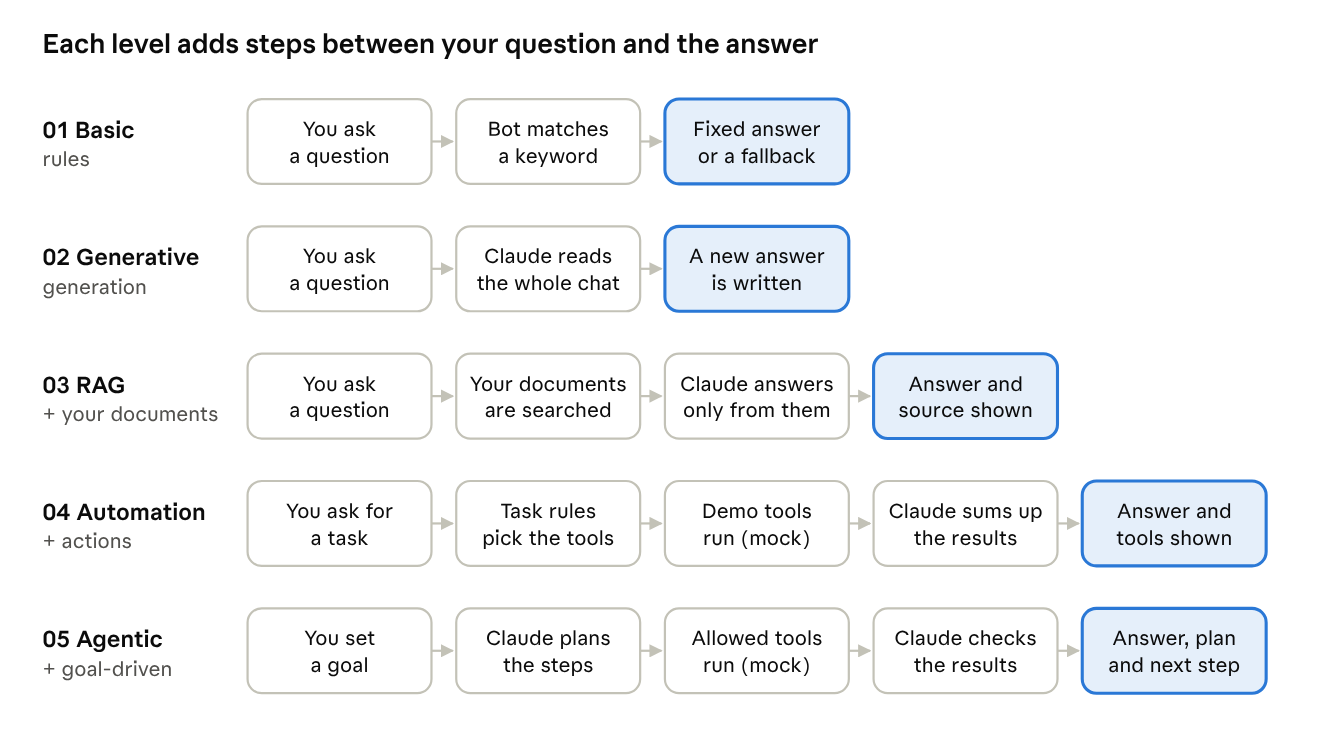
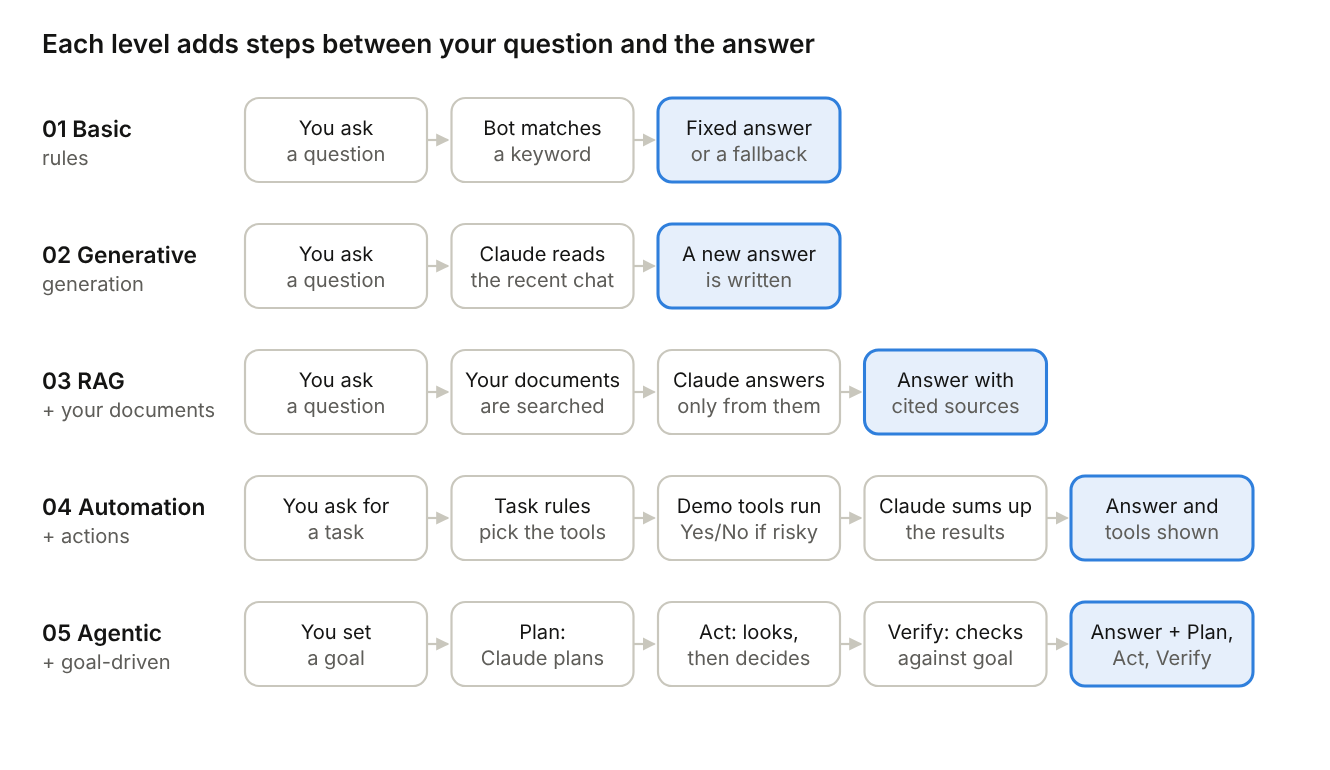
docs: bring README, charter v0.2, summary, runbook and workflows up to date with 0.8.2; redraw workflow diagrams
Claude-Session: https://claude.ai/code/session_01Gj5fjwYeEsk61TV7uCHYFr

diff --git a/docs/PM004_04_Runbook.md b/docs/PM004_04_Runbook.md
@@ -1,6 +1,6 @@
 # PM004_04 Runbook: ChatBot - Basics to Advance
 
-22 Nov 2026 · Naveen Nigam
+23 Nov 2026 · Naveen Nigam
 
 What the app is, how to run it, how to demo the five levels and what to do when something breaks. Learning prototype with demo data only; nothing it does changes a real system. Charter: [PM004_01](PM004_01_Project_Charter.md).
 
@@ -13,10 +13,12 @@ The app shows five chatbots side by side, from fixed rules to a goal-driven agen
 | 01 | Basic Chatbot | Guided menu: pick a topic, then follow-up buttons; typed questions matched by keyword; anything else returns the main menu | No | Click **Cards**, then **Block my card** | Follow-up buttons, mode: fixed_rules |
 | 02 | Generative AI | Writes a free answer from the question alone; knows nothing about Bluewater Bank | Yes | Starter: "Draft an email to the bank asking for an update on payment PAY-1042" | "What this level did" |
 | 03 | RAG | Finds matching text in `knowledge/` and answers only from it, with numbered citations and a Sources list (readable titles; click to see the passage) | Yes | "What is the leave policy?" | "What this level did": sources and match % |
-| 04 | AI Automation | Keyword rules decide which demo tools to run; Claude summarises the results | Yes | "I need leave next week, check my balance" | "What this level did": tools and mock results |
-| 05 | Agentic AI | Look, decide, act: Claude plans and runs read-only lookups, looks at the results, then decides whether any action is needed; irreversible actions wait for approval | Yes | A gold goal, e.g. "My payment PAY-1042 is stuck. Check it and draft a complaint email to the bank" | "What this level did": plan, tools, blocked tools, check |
+| 04 | AI Automation | Keyword rules decide which demo tools to run; Claude summarises the results. No rule matched: a cited document search. Irreversible actions ask Yes / No first | Yes | Cards → "I lost my card. What should I do?" | "What this level did": tools, mock results, approval |
+| 05 | Agentic AI | Plan, Act, Verify: Claude plans, runs read-only lookups, looks at the results, then decides whether any action is needed and checks the outcome against the goal; irreversible actions wait for approval | Yes | A gold goal, e.g. "My payment PAY-1042 is stuck. Check it and draft a complaint email to the bank" | Plan / Act / Verify steps and "Why an agent here" under every answer; the panel adds lookups, decision and checks |
 
-**Same workflow everywhere:** every bot opens with the same five topics. In 01 a topic opens its fixed menu; in 02 to 05 it opens the same short list of questions to pick from, so you can compare answers directly. Each answer ends with follow-up buttons and **Main menu**: fixed in 01; suggested by Claude in 02, 03 and 05; in 04 fixed next steps on the same topic (after a card block: order a replacement card or raise a card ticket).
+**Same workflow everywhere:** every bot opens with the same five topics. In 01 a topic opens its fixed menu; in 02 to 05 it opens the same short list of questions to pick from, so you can compare answers directly. Each answer ends with follow-up buttons and **Main menu**: fixed in 01; suggested by Claude in 02, 03 and 05 (in 05 including actions the agent can take); in 04 fixed next steps on the same topic (after a card block: order a replacement card or raise a card ticket). In 05 each topic also shows one gold **agent goal**, and the three "Goals for the agent" stay above the message box.
+
+**Cost:** every AI answer shows its Claude calls and input/output tokens in "What this level did"; use it to compare what each level costs. See [PM004_07 Token Optimisation](PM004_07_Token_Optimisation.md).
 
 Rule of thumb: use the simplest level that fully solves the problem (decision guide in the charter, section 6.4).
 
@@ -67,6 +69,7 @@ The command window is the server: leave it open while you use the app.
 | `ANTHROPIC_WORKSPACE_ID` | Only for keys not created inside a workspace | Blank |
 | `ANTHROPIC_MODEL` | `claude-sonnet-5-5`, `claude-opus-5-5` or `claude-haiku-5-5` | `claude-sonnet-5-5` |
 | `ANTHROPIC_MAX_TOKENS` | Longest reply length | 1500 |
+| `CHATBOT_HISTORY_MESSAGES` | How many recent messages are re-sent to Claude each turn | 8 |
 
 Use Haiku for long practice sessions to keep costs low, and Sonnet or Opus for demos.
 
@@ -76,17 +79,17 @@ Click the same topic in all five bots, in order, and point out what changes. The
 
 | Question | 01 Basic | 02 Generative AI | 03 RAG | 04 AI Automation | 05 Agentic AI |
 | --- | --- | --- | --- | --- | --- |
-| "What is the leave policy?" | Fixed rule: leave needs approval, ask HR | General answer; does not know your policy | Quotes the demo policy (request 5 working days ahead) and cites `leave_policy.md` | Runs leave balance (8 days, mock) and leave policy tools, then summarises | Makes a plan, picks the leave tools, explains and verifies |
-| "My payment was declined, what should I do?" | No rule: fallback message | General list of common causes | Uses `payments_support.md`: details to confirm, possible causes, escalate | Searches the knowledge base and summarises | Plans the checks, searches, suggests next steps |
-| "I lost my card. What should I do?" (the **Cards** topic) | Card menu: how to block it | General advice | Card policy with source [1] | Asks **Yes, block the card / No, keep it active** first; blocks the demo card only after Yes | Plans the steps, runs safe ones (e.g. a ticket), holds the block for your approval |
-| "My payment keeps failing, raise a support ticket" | Fallback | Explains it cannot raise tickets | Answers from the guides, no ticket | Also creates a demo ticket (DEMO-xxxxxxxx) | May plan search, then ticket, then a check |
+| "What is the leave policy?" | Fixed rule: leave needs approval, ask HR | General answer; does not know your policy | Quotes the demo policy (request 5 working days ahead) and cites `leave_policy.md` | Runs leave balance (8 days, mock) and leave policy tools, then summarises | Looks up balance and policy, decides no action is needed, verifies; may say a lower level would have done |
+| "My payment was declined, what should I do?" | No rule: fallback message | General list of common causes | Uses `payments_support.md`: details to confirm, possible causes, escalate | Searches the knowledge base and summarises | Searches the guides, decides whether a ticket is needed, verifies |
+| "I lost my card. What should I do?" (the **Cards** topic) | Card menu: how to block it | General advice | Card policy with source [1] | Asks **Yes, block the card / No, keep it active** first; blocks the demo card only after Yes | Checks the card rules, proposes blocking the card and waits for your Yes; shows Plan / Act / Verify |
+| "My payment keeps failing, raise a support ticket" | Fallback | Explains it cannot raise tickets | Answers from the guides, no ticket | Also creates a demo ticket (DEMO-xxxxxxxx) | Looks first, raises the ticket because you asked, then verifies |
 | "My payment PAY-1042 is stuck. Check it and draft a complaint email to the bank." (05 gold goal) | Payment update email template | Drafts a generic email | Payment guidance with source, no status | Payment status and an email draft, marked not sent | Checks the status first, then drafts an email that quotes it, and verifies |
 
 **What to say at each step**
 - 01 to 02: the bot now understands free text and writes, but it does not know your company.
 - 02 to 03: answers now come from your own documents, with the source named.
 - 03 to 04: the bot now does something through tools, not just answers.
-- 04 to 05: the bot decides the steps itself; that flexibility is why real actions need human approval.
+- 04 to 05: the agent looks before it acts, decides its next step from what it found, verifies the result and says why an agent was (or was not) needed. That flexibility is why real actions still need your approval. Try a gold goal to see it earn its extra cost.
 
 Results vary slightly between runs for modes 02 to 05.
 
@@ -107,6 +110,7 @@ Results vary slightly between runs for modes 02 to 05.
 | Port 8000 already in use | App already running in another window | Close the other window, or use the one already open |
 | Basic bot says no rule matches | Expected: it only knows its fixed rules | Use the demo questions, or add a rule (section 7) |
 | RAG says it found nothing relevant | Question words do not appear in the knowledge files | Rephrase, or add a document |
+| "Why an agent here: the agent's decision could not be read" | Claude's decision reply was not valid JSON, so the agent safely did nothing | Ask again; the raw reply is shown in "What this level did" for diagnosis |
 | Old chats gone | `chat_history.db` deleted or app run from another folder | Restore the backup copy into the app folder |
 
 ## 7. Extending, safety and backup
@@ -115,7 +119,7 @@ Results vary slightly between runs for modes 02 to 05.
 | --- | --- | --- |
 | Teach the RAG bot your own content | Add a `.md` file to `knowledge/`; separate topics with a blank line | Demo or non-sensitive content only |
 | Add a Basic menu topic | Add a node to `BASIC_TREE` in `app.py` (label, answer, follow-up options, keywords), link it from a parent's options, and add it to `BASIC_MATCH_ORDER` | Keep wording exact and approved |
-| Add a demo tool | Add it to `tool()` and `ALLOWED_TOOLS`, and a keyword rule in the automation branch | Mock results only |
+| Add a demo tool | Add it to `tool()` and to `READ_ONLY_TOOLS` (only looks) or `ACTION_TOOLS` (changes something); add irreversible ones to `NEEDS_APPROVAL`; add a keyword rule for level 04 | Mock results only |
 | Change the model | `ANTHROPIC_MODEL` in `.env` | Restart |
 | Run the tests | `pip install -r requirements-dev.txt` then `pytest` | No key or internet needed |
 

diff --git a/docs/PM004_06_Workflows.md b/docs/PM004_06_Workflows.md
@@ -1,12 +1,12 @@
 # PM004_06 Workflows: ChatBot - Basics to Advance
 
-22 Nov 2026 · Naveen Nigam
+23 Nov 2026 · Naveen Nigam
 
 This document shows how the five chatbots work twice over: first as the user experiences them (functional), then as the system processes them (technical). Every step matches the current code; anything planned is marked as backlog. Related: [Charter](PM004_01_Project_Charter.md), [Runbook](PM004_04_Runbook.md), [Executive Summary](PM004_05_Executive_Summary.md).
 
 ## 1. Functional workflows
 
-From the user's side every level starts the same way: the same five topics, or a typed question or goal. Each level adds steps before the answer arrives, and every answer ends with follow-up buttons and Main menu (fixed in 01, suggested by Claude in 02 to 05, written in the same call at no extra cost).
+From the user's side every level starts the same way: the same five topics, or a typed question or goal. Each level adds steps before the answer arrives, and every answer ends with follow-up buttons and Main menu (fixed in 01 and 04; suggested by Claude in 02, 03 and 05, written in the same call at no extra cost).
 
 ![Functional workflows: user view of the five levels](images/workflow-functional.png)
 
@@ -16,9 +16,9 @@ The highlighted box is what the user gets back. What changes from level to level
 | --- | --- | --- | --- |
 | 01 Basic | Clicks a topic or asks a known question | A fixed answer with buttons for the next questions, or the main menu if nothing matches | Exact, approved wording |
 | 02 Generative AI | Picks a topic or asks anything in their own words | A new written answer, three suggested follow-up questions and Main menu | Drafting and explaining; not company facts |
-| 03 RAG | Asks about company policy or procedure | An answer plus the source file names | Answers grounded in the documents given |
-| 04 AI Automation | Asks for a known task | A summary plus the tools that ran; a Yes / No approval first for anything irreversible; follow-ups offer only real tasks on the same topic | Defined tasks with predictable steps |
-| 05 Agentic AI | States a goal | The plan, the tools that ran and the result | Multi-step goals, with a person approving any real action |
+| 03 RAG | Asks about company policy or procedure | An answer with numbered citations and a Sources list (document title and the passage used) | Answers grounded in the documents given |
+| 04 AI Automation | Asks for a known task | A summary plus the tools that ran; a Yes / No approval first for anything irreversible; follow-ups offer only real tasks on the same topic; a cited document search when no rule matches | Defined tasks with predictable steps |
+| 05 Agentic AI | States a goal, or picks a gold goal | A short reply, then Plan → Act → Verify steps and a "Why an agent here" note; a Yes / No approval first for anything irreversible | Multi-step goals, with a person approving any real action |
 
 ## 2. Technical request flow
 
@@ -38,9 +38,9 @@ Step 5 runs different functions in `app.py` for each level. The number of Claude
 | --- | --- | --- | --- |
 | 01 Basic | `basic()` over `BASIC_TREE` (16 topics, each with follow-up options) | 0 | None needed |
 | 02 Generative AI | `history()`, `clean_messages()`, `llm()` | 1 | None needed |
-| 03 RAG | `retrieve()` (content-word overlap, common words ignored, top 3 chunks), `llm()` with the chunks as context | 0 when nothing matches, else 1 | Embedding search with a vector store |
-| 04 AI Automation | keyword rules, `tool()`, `llm()` to summarise | 1 | Claude native tool calling |
-| 05 Agentic AI | `llm()` plan + read-only lookups (`READ_ONLY_TOOLS`), `tool()`, `llm()` decide actions after seeing results (`ACTION_TOOLS`, approval for irreversible ones), `llm()` short answer | 3 | Native tool calling in a loop, with a human approval step |
+| 03 RAG | `retrieve()` (content-word overlap, common words ignored, top 3 chunks, weak matches below half the best score dropped), `number_sources()`, `llm()` with numbered sources as context | 0 when nothing matches, else 1 | Embedding search with a vector store |
+| 04 AI Automation | keyword rules (`automation_tools()`), `tool()`, `llm()` to summarise; no rule matched: cited document search; `NEEDS_APPROVAL` holds irreversible tools | 0 or 1 (0 when asking for approval, after a No, or when nothing is found) | Claude native tool calling |
+| 05 Agentic AI | Plan: `llm()` JSON plan and read-only lookups (`READ_ONLY_TOOLS`). Act: `tool()`, then `llm()` decides actions after seeing the results (`ACTION_TOOLS`; irreversible ones held for approval). Verify: app checks, then `llm()` short reply with a `VERIFY:` line, parsed by `finish_verify()` | 3 | Native tool calling in a loop, with a human approval step |
 
 ## 4. Error and safety paths
 
@@ -56,7 +56,10 @@ Every failure returns a clear message instead of a guess, and the safety rules a
 | A request failed, then the user sends again | Merges the two user turns so Claude still gets alternating turns | A normal answer | Yes |
 | RAG finds nothing relevant | Does not call Claude at all | "I won't invent a policy answer" | Yes |
 | Agent plans a tool that is not on the allow-list | Skips it; only allow-listed tools run | Only real demo tool results | Yes |
-| Agent plan is not valid JSON | Falls back to a safe plan with no tools | An explanation that no tools were run | No |
+| Agent plan is not valid JSON | Falls back to a safe plan that only searches the documents | A normal answer from the documents | No |
+| Agent decision is not valid JSON | Takes no action | "The agent's decision could not be read, so it safely took no action"; the raw reply is shown in the panel | Yes (parser test) |
+| Agent tries an action during the look step | Blocks it; actions run only after the decision step | Listed under blocked tools | Yes |
+| Document search finds only weak matches | Drops passages scoring less than half the best match | Answers use only relevant passages | Yes |
 | Conversation belongs to another bot | Rejects the message (HTTP 400) | Error message | No |
 | Empty message or unknown bot | Rejects the message (HTTP 400) | Error message | No |
 | Any demo tool | Returns mock data only; nothing is sent, submitted or booked | Results marked as demo or "not sent" | Yes |
@@ -72,18 +75,18 @@ The page talks to eleven small API endpoints, and two SQLite tables hold all con
 | `GET /` | Serves the web page |
 | `GET /api/health` | Status badge: provider, model, whether a key is configured |
 | `GET /api/basic/menu` | Main menu topics for the Basic bot |
-| `GET /api/menu?bot=<mode>` | The shared topic menu: in Basic each topic opens its menu branch; in 02 to 05 each topic sends the same question |
+| `GET /api/menu?bot=<mode>` | The shared topic menu: in Basic each topic opens its menu branch; in 02 to 05 each topic opens the same list of questions; in 05 each topic also has a gold goal, plus three goals for the strip above the message box |
 | `GET /api/settings` | Whether a key is set (masked hint only), workspace ID, model |
 | `POST /api/settings` | Saves key, workspace ID and model to `.env`; validates their format |
 | `POST /api/settings/test` | Live, free connection test (token count) with a plain-English result |
 | `GET /api/conversations?bot=<mode>` | Lists saved conversations for one mode, newest first |
 | `POST /api/conversations` | Starts a new conversation for a mode |
 | `GET /api/conversations/{id}` | Reopens one conversation with all its messages |
-| `POST /api/chat` | Sends a message and returns the answer plus metadata (mode, sources, tools, plan) |
+| `POST /api/chat` | Sends a message and returns the answer plus metadata (mode, sources, tools, plan, workflow, verify, usage) |
 
 | Table | Fields | Notes |
 | --- | --- | --- |
 | `conversations` | id, bot, title, created_at, updated_at | Title is the first 40 characters of the first question |
-| `messages` | id, conversation_id, role, content, created_at, meta | Role is user or assistant; meta holds "what this level did" (sources, tools, plan, check); full history is sent to Claude on each turn |
+| `messages` | id, conversation_id, role, content, created_at, meta | Role is user or assistant; meta holds "what this level did" (sources, tools, plan, workflow, checks, token usage); only the last 8 messages are sent to Claude on each turn |
 
 **Not stored in the database:** the API key. It is kept only in `.env` on the computer running the app and never returned to the page in full.

diff --git a/docs/PM004_01_Project_Charter.md b/docs/PM004_01_Project_Charter.md
@@ -1,6 +1,6 @@
 # PM004_01 Project Charter: ChatBot - Basics to Advance
 
-22 Nov 2026 · Naveen Nigam · v0.1, Draft
+23 Nov 2026 · Naveen Nigam · v0.2, Draft (updated to match release 0.8.2)
 
 **Charter at a glance**
 
@@ -23,7 +23,7 @@ PM004 turns the "ChatBot - Basics to Advance" prototype into five working chatbo
 | Project code | PM004 |
 | Owner and project manager | Naveen Nigam |
 | Organisation | Learning with Naveen |
-| Version and status | v0.1, Draft |
+| Version and status | v0.2, Draft |
 | Planned start | 22 Nov 2026 |
 | Planned end | [TBC] |
 | Working base | This repository (FastAPI, SQLite, Claude) |
@@ -81,10 +81,12 @@ One app with five working levels and the material that explains them. All bounda
 - The five modes: 01 Basic, 02 Generative AI, 03 RAG, 04 AI Automation, 05 Agentic AI
 - Claude for modes 02 to 05; Basic stays rules only
 - Conversation history per mode in SQLite
-- RAG over Markdown files in `knowledge/`, with source file names shown
-- Allow-listed demo tools (leave balance, leave policy, knowledge search, ticket, email draft) that change nothing outside the app
+- RAG over Markdown files in `knowledge/`, with numbered citations and readable source titles
+- Allow-listed demo tools (leave balance, leave policy, knowledge search, payment status, ticket, email draft, block card, order replacement card) that change nothing outside the app
+- Human approval (Yes / No) before any irreversible action, in modes 04 and 05 (added 22 Nov 2026)
+- Token use shown for every answer, and a token optimisation guide, PM004_07 (added 23 Nov 2026)
 - One shared scenario set run through all five modes
-- Learning content: this charter and the runbook (PM004_04)
+- Learning content: this charter, the runbook (PM004_04), executive summary (PM004_05), workflows (PM004_06) and token optimisation guide (PM004_07)
 
 **Out of scope**
 - Real external actions: sending email, submitting leave, creating real tickets, bookings
@@ -96,7 +98,7 @@ One app with five working levels and the material that explains them. All bounda
 - Embedding-based retrieval with a vector store for mode 03
 - Claude native tool use for modes 04 and 05 instead of keyword rules and a JSON plan
 - Memory beyond the current conversation
-- Guardrails, human approval step in the UI, evaluation set, cost and token display
+- Guardrails and an evaluation set (the human approval step and token display moved into scope)
 - One question sent to all five modes at once, answers side by side
 - Hosted demo link
 
@@ -119,11 +121,11 @@ Each level keeps what the previous one could do and adds one capability: rules, 
 
 | # | Type | Workflow | What it adds | In the prototype today |
 | --- | --- | --- | --- | --- |
-| 01 | Basic chatbot | User -> menu or rule match -> predefined response | Fixed, predictable answers | Guided menu of 16 demo topics (bank hours, branches, cards, leave, email templates) with follow-up buttons; falls back to the main menu |
+| 01 | Basic chatbot | User -> menu or rule match -> predefined response | Fixed, predictable answers | Guided menu of 16 demo topics (bank hours, branches, cards, leave, customer email templates) with follow-up buttons; falls back to the main menu |
 | 02 | Generative AI | Prompt -> LLM -> generated response | Understands free text and writes new content | Claude with a short system prompt |
-| 03 | RAG | Question -> retrieve knowledge -> LLM -> grounded answer | Answers from your own documents, with sources | Keyword retrieval over 5 Bluewater Bank documents; refuses when nothing matches |
-| 04 | AI Automation | Request -> LLM -> tool or API -> action -> result | Does defined tasks through tools | Keyword rules call allow-listed demo tools; Claude summarises results |
-| 05 | Agentic AI | Goal -> plan -> tools -> observe and adapt -> verify -> result | Works out the steps itself towards a goal | Claude writes a plan, picks allowed tools, the app runs them, Claude explains and verifies |
+| 03 | RAG | Question -> retrieve knowledge -> LLM -> grounded answer | Answers from your own documents, with sources | Keyword retrieval over 5 Bluewater Bank documents, weak matches dropped; numbered citations with a Sources list; refuses when nothing matches |
+| 04 | AI Automation | Request -> LLM -> tool or API -> action -> result | Does defined tasks through tools | Keyword rules call allow-listed demo tools; Claude summarises results; asks Yes / No before an irreversible action; cited document search when no rule matches |
+| 05 | Agentic AI | Goal -> plan -> tools -> observe and adapt -> verify -> result | Works out the steps itself towards a goal | Plan, Act, Verify: Claude plans and runs read-only lookups, decides whether any action is needed after seeing the results, and checks the outcome against the goal; irreversible actions wait for approval; each answer says why an agent was (or was not) needed |
 
 These are not five separate products. In real systems they combine: an agent often uses RAG, tools and memory together. The levels are a way to learn which capability a problem actually needs.
 
@@ -188,6 +190,8 @@ Not the right choice when a fixed workflow would do the job: agents cost more, a
 
 ### 6.3 One question, five answers
 
+Illustrative: how each type behaves in a full system. The prototype's demo tools are narrower (see 6.1); its actual answers are in the runbook demo script.
+
 | Level | "Can I take two days of leave next week?" | "Why was my payment declined?" |
 | --- | --- | --- |
 | 01 Basic | Answers only if that exact rule was programmed; otherwise a fallback | Points to a fixed FAQ or a contact number |
@@ -209,7 +213,7 @@ Claude is fixed as the model because an Anthropic key is already in use and the 
 | Criterion | Why it fits | Status |
 | --- | --- | --- |
 | Already in use | Anthropic key and earlier Claude-based apps already run on it | Confirmed |
-| Prototype moved | All five modes rewired to the Anthropic SDK; offline test suite passes | Confirmed (live key test pending) |
+| Prototype moved | All five modes rewired to the Anthropic SDK; offline test suite passes; all five run live | Confirmed (live, 23 Nov 2026) |
 | Tool use for modes 04 and 05 | Native tool calling could replace keyword rules and the JSON plan | Verify at build |
 | Grounded answers with sources | Follows "answer only from this context" instructions for RAG | Verify at build |
 | Model choice by cost | Sonnet by default; Haiku or Opus selectable in `.env` | Confirmed (setting exists) |
@@ -288,7 +292,7 @@ Decision at the end of each phase: G1 decides whether the levels already look di
 | Software (Python, FastAPI, SQLite) | No licence cost | None |
 
 **Open items**
-- [ ] Run the app with a live Anthropic key and confirm all 5 modes
+- [x] Run the app with a live Anthropic key and confirm all 5 modes (23 Nov 2026)
 - [ ] Agree the scenario set and its size
 - [ ] Set gate thresholds after the first scenario run
 - [ ] Set an API spend limit

diff --git a/README.md b/README.md
@@ -19,8 +19,8 @@ It is part of the **Learning with Naveen** module on the evolution of AI, and wa
 | 01 | Basic chatbot | User -> menu or rule match -> fixed response + next options | Exact, predictable answers | FAQs, regulated wording, menus |
 | 02 | Generative AI | Prompt -> LLM -> generated response | Understands free text, writes new content | Drafting, summarising, explaining |
 | 03 | RAG | Question -> retrieve documents -> LLM -> grounded answer | Answers from your own documents, with sources | Policies, SOPs, knowledge bases |
-| 04 | AI Automation | Request -> LLM -> tool -> action -> result | Carries out defined tasks | Tickets, lookups, recurring reports |
-| 05 | Agentic AI | Goal -> plan -> tools -> observe -> verify -> result | Works out the steps towards a goal | Investigations, multi-step goals, with human approval |
+| 04 | AI Automation | Request -> rules pick tools -> action -> Claude summarises | Carries out defined tasks | Tickets, lookups, recurring reports |
+| 05 | Agentic AI | Goal -> plan -> look, then decide and act -> verify -> result | Decides its next step from what it finds | Investigations, multi-step goals, with human approval |
 
 Real-world examples for each level, and where each is the wrong choice, are in the [project charter, section 6.2](docs/PM004_01_Project_Charter.md#62-where-each-type-is-most-useful).
 
@@ -28,11 +28,11 @@ Real-world examples for each level, and where each is the wrong choice, are in t
 
 | Level | "Can I take two days of leave next week?" |
 | --- | --- |
-| 01 Basic | Answers only if that exact rule was programmed; otherwise a fallback |
-| 02 Generative AI | A sensible general answer, but does not know the company's policy |
-| 03 RAG | Quotes the actual leave policy and cites the file |
-| 04 AI Automation | Also checks the leave balance and prepares the request |
-| 05 Agentic AI | Checks policy, balance and calendar, suggests dates, verifies, asks before submitting |
+| 01 Basic | A fixed answer: leave needs approval and 5 working days' notice; no model used |
+| 02 Generative AI | Sensible general advice, but it does not know Bluewater Bank's policy or your balance |
+| 03 RAG | Quotes the actual leave policy with a numbered citation and the source passage |
+| 04 AI Automation | Rules run the leave balance and leave policy tools (mock data); Claude summarises |
+| 05 Agentic AI | Plans, looks up balance and policy, decides no action is needed and verifies; its "Why an agent here" note can say a lower level would have done |
 
 ### Choosing the level
 
@@ -49,8 +49,8 @@ Real-world examples for each level, and where each is the wrong choice, are in t
 - **05 Agentic AI:** a visible **Plan -> Act -> Verify** workflow on every answer, with a plain-language "Why an agent here" note (which honestly says when a simpler level would have done). Act is a look -> decide loop. Claude plans and runs **read-only lookups** first, sees what they returned, then **decides** whether any action (ticket, email, card) is really needed. The app runs only allow-listed tools and holds any irreversible step until the user approves it. The reply is short and customer-facing; the plan, lookups, decision and check appear in "What this level did".
 - **History:** every conversation is stored per mode in SQLite and can be reopened, including what each level did.
 - **Shared company:** all five bots use the same fictional company, Bluewater Bank: the Basic menu, the five knowledge files and the demo tools state the same facts, so answers can be compared like for like.
-- **Same workflow in every bot:** all five open with the same five topics (Banking hours, Branches and ATMs, Cards, Leave policy, Write an email), and each topic opens the same short list of questions in every bot; nothing is sent until you pick one, so levels can be compared like for like. Every answer ends with follow-up buttons: fixed ones in level 01, three suggested by Claude in levels 02 to 05, plus Main menu.
-- **Transparency:** under every AI answer, a "What this level did" panel shows the sources used, tools run (with their mock results), the plan, blocked tools and the final check.
+- **Same workflow in every bot:** all five open with the same five topics (Banking hours, Branches and ATMs, Cards, Leave policy, Write an email), and each topic opens the same short list of questions in every bot; nothing is sent until you pick one, so levels can be compared like for like. Every answer ends with follow-up buttons plus Main menu: fixed in levels 01 and 04, suggested by Claude in 02, 03 and 05. In 05 each topic also offers a gold **agent goal**, and a "Goals for the agent" strip stays above the message box.
+- **Transparency:** under every AI answer, a "What this level did" panel shows the sources used, tools run (with their mock results), blocked tools, the agent's decision and checks, and the **cost**: Claude calls and input/output tokens per step.
 - **Honest errors:** if Claude cannot be reached, the chat says why in plain words (invalid key, missing workspace ID, no credit, no internet) and how to fix it, with an Open Settings button.
 
 ## Quick start
@@ -77,7 +77,7 @@ pip install -r requirements-dev.txt
 pytest
 ```
 
-The 16-test suite covers all five modes offline: Claude is replaced by a fake client, so no API key, internet or credit is needed. It checks that Basic never calls the model, RAG cites sources and refuses off-topic questions, only allow-listed tools ever run, history and "what this level did" are saved, settings never return the key, and key, workspace and credit problems produce plain-English fixes. Tests run automatically on every push (GitHub Actions).
+The 31-test suite covers all five modes offline: Claude is replaced by a fake client, so no API key, internet or credit is needed. It checks that Basic never calls the model, RAG cites sources, drops weak matches and refuses off-topic questions, only allow-listed tools ever run, a card is never blocked without a Yes, the agent looks before it acts and shows Plan / Act / Verify, token use is recorded and history is capped, settings never return the key, and key, workspace and credit problems produce plain-English fixes. Tests run automatically on every push (GitHub Actions).
 
 ## Project structure
 

diff --git a/docs/PM004_05_Executive_Summary.md b/docs/PM004_05_Executive_Summary.md
@@ -1,6 +1,6 @@
 # PM004_05 Executive Summary: ChatBot - Basics to Advance
 
-22 Nov 2026 · Naveen Nigam
+23 Nov 2026 · Naveen Nigam
 
 ChatBot - Basics to Advance is a working app with five chatbots, one for each stage of AI evolution, that answer the same question side by side. It turns a common business question, "which kind of AI do we actually need?", into something people can see and test. The message it proves: more AI does not automatically mean better AI; start with the business requirement and choose the minimum capability needed.
 
@@ -9,9 +9,9 @@ ChatBot - Basics to Advance is a working app with five chatbots, one for each st
 | What | One web app, five chatbots: Basic rules, Generative AI, RAG, AI Automation, Agentic AI |
 | For whom | Business leaders, product and delivery teams, and people starting their AI journey |
 | Built with | Python, FastAPI, SQLite, Anthropic Claude API, pytest, GitHub Actions |
-| Status | Working prototype; offline test suite passing; live verification is the next phase |
+| Status | Working prototype running live on Claude; 31 offline tests passing; capturing live results is the current step |
 | Owner | Naveen Nigam (product owner, project manager and delivery lead) |
-| Project documents | [PM004_01 Charter](PM004_01_Project_Charter.md), [PM004_04 Runbook](PM004_04_Runbook.md), [PM004_06 Workflows](PM004_06_Workflows.md) |
+| Project documents | [PM004_01 Charter](PM004_01_Project_Charter.md), [PM004_04 Runbook](PM004_04_Runbook.md), [PM004_06 Workflows](PM004_06_Workflows.md), [PM004_07 Token Optimisation](PM004_07_Token_Optimisation.md) |
 
 ## 1. The problem
 
@@ -33,7 +33,7 @@ One app where the same question can be put to five chatbots; each level keeps wh
 | 02 | Generative AI | Generation | Understands free text and writes, but knows nothing about your company |
 | 03 | RAG | Your knowledge | Answers only from your own documents and names the source |
 | 04 | AI Automation | Actions | Carries out defined tasks through tools, such as raising a ticket |
-| 05 | Agentic AI | Goal-driven steps | Plans its own steps towards a goal, uses tools, checks the result, asks before acting |
+| 05 | Agentic AI | Goal-driven steps | Plans, looks things up, decides whether to act from what it finds, verifies against the goal; asks before anything irreversible |
 
 Every conversation is saved, demo tools never touch real systems, and a test suite checks each level's safety rules on every change.
 
@@ -72,15 +72,19 @@ Use the simplest level that fully solves the problem, and move up only when the 
 
 ## 5. Status and next steps
 
-The prototype is built and passes its offline tests; live verification with a shared scenario set is the next phase.
+The prototype runs live on Claude and passes 31 offline tests; capturing live results across all five levels is the current step.
 
-**Done (Phase 0, 22 Nov 2026)**
-- All five levels implemented in one app on the Anthropic Claude API, with saved conversation history
-- Offline test suite of 9 tests passing, covering every level and its safety rules (for example, Basic never calls the model; only allow-listed tools run)
-- Project charter, runbook, workflows, architecture, decision guide and roadmap published
+**Done (Phase 0, 22 to 23 Nov 2026)**
+- All five levels implemented in one app on the Anthropic Claude API, with saved conversation history, and running live
+- Same topics and questions in every bot, so levels can be compared like for like
+- Human approval before anything irreversible (blocking a card), in Automation and Agentic modes
+- Agentic level rebuilt as Plan, Act (look first, then decide), Verify, with a plain-language note on why an agent was or was not needed
+- Token use measured on every answer, with a token optimisation guide for future projects
+- Offline test suite of 31 tests, covering every level and its safety rules, run on every change
+- Project charter, runbook, workflows, token optimisation guide, architecture, decision guide and roadmap published
 
 **Next**
-- Phase 1: run one scenario set through all five levels with the live API and record the results
+- Phase 1 (in progress): run one scenario set through all five levels with the live API and record the results
 - Phase 2: make levels 04 and 05 use Claude's native tool calling and strengthen retrieval for level 03
 - Phase 3: publish the learning module (deck, runbook, examples)
 - Phase 4: share a recorded demo

diff --git a/CHANGELOG.md b/CHANGELOG.md
@@ -1,5 +1,9 @@
 # Changelog
 
+## 0.8.3 - 2026-11-23
+- **Documents brought up to date with 0.8.2:** README, charter (v0.2), executive summary, runbook and workflows now describe the current app: Plan / Act / Verify, look-then-decide agent, approval for irreversible actions, numbered citations, weak-match cut-off, Automation's fixed follow-ups and cited fallback, gold agent goals, token use per answer, history cap and the 31-test suite.
+- Technical and functional workflow diagrams redrawn (level 05 now three Claude calls; 04 can make none).
+
 ## 0.8.2 - 2026-11-23
 - **No more emails to a manager:** the Write an email topic now drafts customer emails to the bank (payment update, missing card) in every bot, including Basic's templates and Automation's follow-ups.
 - **One agent goal per topic in 05,** shown in gold under the topic's questions (for example Cards: "I lost my card. Block it and order a replacement."). The shared questions stay, so levels can still be compared like for like.
